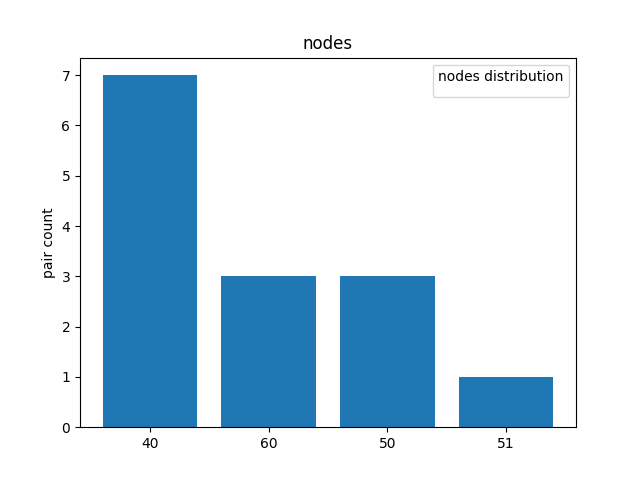
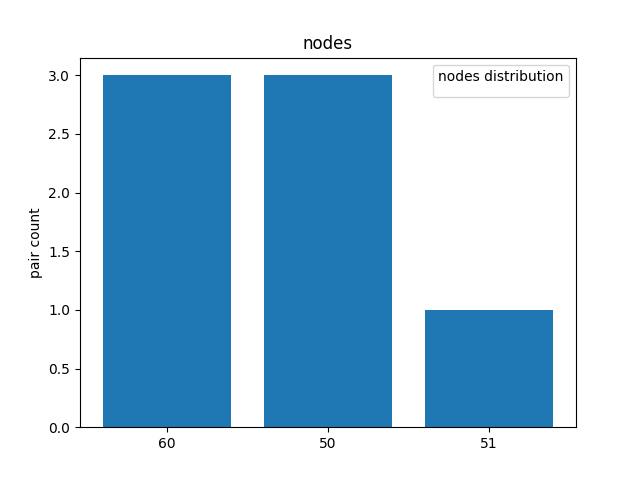
update threshold

diff --git a/vickey/CityV2.py b/vickey/CityV2.py
@@ -61,7 +61,7 @@ class City(unittest.TestCase):
         genuine_ide = []
         weak_ide = []
         for l in ide:
-            if l[2] >= filter_ide:
+            if l[2] > filter_ide:
                 genuine_ide.append(l)
             else:
                 weak_ide.append(l)
@@ -112,7 +112,7 @@ class City(unittest.TestCase):
                 genuine_inc.append(l)
             else:
                 weak_inc.append(l)
-                if l[3] >= filter_ide:
+                if l[3] > filter_ide:
                     genuine_ide.append(l)
                 else:
                     weak_ide.append(l)
@@ -222,14 +222,14 @@ class City(unittest.TestCase):
                 if l[3] > 0:
                     epsilon = contexts[1][0]
                     ide = self._compute_identity(len(epsilon),max_epsilon_size) 
-                    if ide >= filter_ide:
+                    if ide > filter_ide:
                         genuine_ide.append(l)
                     else:
                         weak_ide.append(l)
                 elif l[3] < 0:
                     delta = contexts[1][1]
                     dif = self._compute_difference(len(delta),max_delta_size)
-                    if dif >= filter_dif:
+                    if dif > filter_dif:
                         genuine_dif.append(l)
                     else:
                         weak_dif.append(l)
@@ -314,14 +314,14 @@ class City(unittest.TestCase):
                 if l[4] > 0:
                     epsilon = contexts[1][0]
                     ide = self._compute_identity(len(epsilon),max_epsilon_size) 
-                    if ide >= filter_ide:
+                    if ide > filter_ide:
                         genuine_ide.append(l)
                     else:
                         weak_ide.append(l)
                 elif l[4] < 0:
                     delta = contexts[1][1]
                     dif = self._compute_difference(len(delta),max_delta_size)
-                    if dif >= filter_dif:
+                    if dif > filter_dif:
                         genuine_dif.append(l)
                     else:
                         weak_dif.append(l)

diff --git a/vickey/BookV2.py b/vickey/BookV2.py
@@ -59,7 +59,7 @@ class Book(unittest.TestCase):
         genuine_ide = []
         weak_ide = []
         for l in ide:
-            if l[2] >= filter_ide:
+            if l[2] > filter_ide:
                 genuine_ide.append(l)
             else:
                 weak_ide.append(l)
@@ -116,7 +116,7 @@ class Book(unittest.TestCase):
                 genuine_inc.append(l)
             else:
                 weak_inc.append(l)
-                if l[3] >= filter_id:
+                if l[3] > filter_id:
                     genuine_ide.append(l)
                 else:
                     weak_ide.append(l)
@@ -230,14 +230,14 @@ class Book(unittest.TestCase):
                 if l[3] > 0:
                     epsilon = contexts[1][0]
                     ide = self._compute_identity(len(epsilon),max_epsilon_size) 
-                    if ide >= filter_ide:
+                    if ide > filter_ide:
                         genuine_ide.append(l)
                     else:
                         weak_ide.append(l)
                 elif l[3] < 0:
                     delta = contexts[1][1]
                     dif = self._compute_difference(len(delta),max_delta_size)
-                    if dif >= filter_dif:
+                    if dif > filter_dif:
                         genuine_dif.append(l)
                     else:
                         weak_dif.append(l)
@@ -318,14 +318,14 @@ class Book(unittest.TestCase):
                 if l[4] > 0:
                     epsilon = contexts[1][0]
                     ide = self._compute_identity(len(epsilon),max_epsilon_size) 
-                    if ide >= filter_ide:
+                    if ide > filter_ide:
                         genuine_ide.append(l)
                     else:
                         weak_ide.append(l)
                 elif l[4] < 0:
                     delta = contexts[1][1]
                     dif = self._compute_difference(len(delta),max_delta_size)
-                    if dif >= filter_dif:
+                    if dif > filter_dif:
                         genuine_dif.append(l)
                     else:
                         weak_dif.append(l)

diff --git a/vickey/BookPatternIde.py b/vickey/BookPatternIde.py
@@ -11,7 +11,7 @@ class BookPatternIde(unittest.TestCase):
         p = p_all_context["P5"]
 
         max_epsilon_size,max_delta_size,max_omega_size = compute_subc_max_size(p)
-
+        print (max_epsilon_size)
         k=3
         assert(k < max_epsilon_size)
 
@@ -21,7 +21,7 @@ class BookPatternIde(unittest.TestCase):
         genuine_ide = []
         artificial_ide = []
         for l in ide:
-            if l[2] >= filter_ide:
+            if l[2] > filter_ide:
                 genuine_ide.append(l)
             else:
                 artificial_ide.append(l)
@@ -41,7 +41,7 @@ class BookPatternIde(unittest.TestCase):
         x,y = plot_distribution(pair_subc_level_count,"./Book/graph/distribution_g_identities")
 
         # heavy nodes
-        heavy_nodes = compute_heavy_nodes(x,y,14,1)
+        heavy_nodes = compute_heavy_nodes(x,y,7,1)
         heavy_nodes_ratio = compute_heavy_nodes_ratio(heavy_nodes,pair_subc_level_count)
         # build epsilon  lattice for genuine ide      
         in_subc_connected = {}
@@ -94,7 +94,7 @@ class BookPatternIde(unittest.TestCase):
         genuine_ide = []
         artificial_ide = []
         for l in ide:
-            if l[2] >= filter_ide:
+            if l[2] > filter_ide:
                 genuine_ide.append(l)
             else:
                 artificial_ide.append(l)
@@ -112,13 +112,14 @@ class BookPatternIde(unittest.TestCase):
         x,y = plot_distribution(pair_subc_level_count,"./Book/graph/distribution_a_identities")
 
         # heavy nodes
-        heavy_nodes = compute_heavy_nodes(x,y,61,1)
+        heavy_nodes = compute_heavy_nodes(x,y,68,1)
         heavy_nodes_ratio = compute_heavy_nodes_ratio(heavy_nodes,pair_subc_level_count)
         # build epsilon  lattice for aritifcial ide      
         in_subc_connected = {}
         connect(1,subc_levels,in_subc_connected)
         connect(2,subc_levels,in_subc_connected)
         connect(3,subc_levels,in_subc_connected)
+        connect(4,subc_levels,in_subc_connected)
         
         subc_index = index_subc_id(subc_levels)
         ############################ 

diff --git a/vickey/MountainV2.py b/vickey/MountainV2.py
@@ -60,7 +60,7 @@ class Mountain(unittest.TestCase):
         genuine_ide = []
         weak_ide = []
         for l in ide:
-            if l[2] >= filter_ide:
+            if l[2] > filter_ide:
                 genuine_ide.append(l)
             else:
                 weak_ide.append(l)
@@ -89,7 +89,7 @@ class Mountain(unittest.TestCase):
         weak_diff = []
 
         for l in dif:
-            if l[2] >= filter_dif:
+            if l[2] > filter_dif:
                 genuine_diff.append(l)
             else:
                 weak_diff.append(l)
@@ -230,14 +230,14 @@ class Mountain(unittest.TestCase):
                 if l[3] > 0:
                     epsilon = contexts[1][0]
                     ide = self._compute_identity(len(epsilon),max_epsilon_size) 
-                    if ide >= filter_ide:
+                    if ide > filter_ide:
                         genuine_ide.append(l)
                     else:
                         weak_ide.append(l)
                 elif l[3] < 0:
                     delta = contexts[1][1]
                     dif = self._compute_difference(len(delta),max_delta_size)
-                    if dif >= filter_dif:
+                    if dif > filter_dif:
                         genuine_dif.append(l)
                     else:
                         weak_dif.append(l)
@@ -322,14 +322,14 @@ class Mountain(unittest.TestCase):
                 if l[4] > 0:
                     epsilon = contexts[1][0]
                     ide = self._compute_identity(len(epsilon),max_epsilon_size) 
-                    if ide >= filter_ide:
+                    if ide > filter_ide:
                         genuine_ide.append(l)
                     else:
                         weak_ide.append(l)
                 elif l[4] < 0:
                     delta = contexts[1][1]
                     dif = self._compute_difference(len(delta),max_delta_size)
-                    if dif >= filter_dif:
+                    if dif > filter_dif:
                         genuine_dif.append(l)
                     else:
                         weak_dif.append(l)
